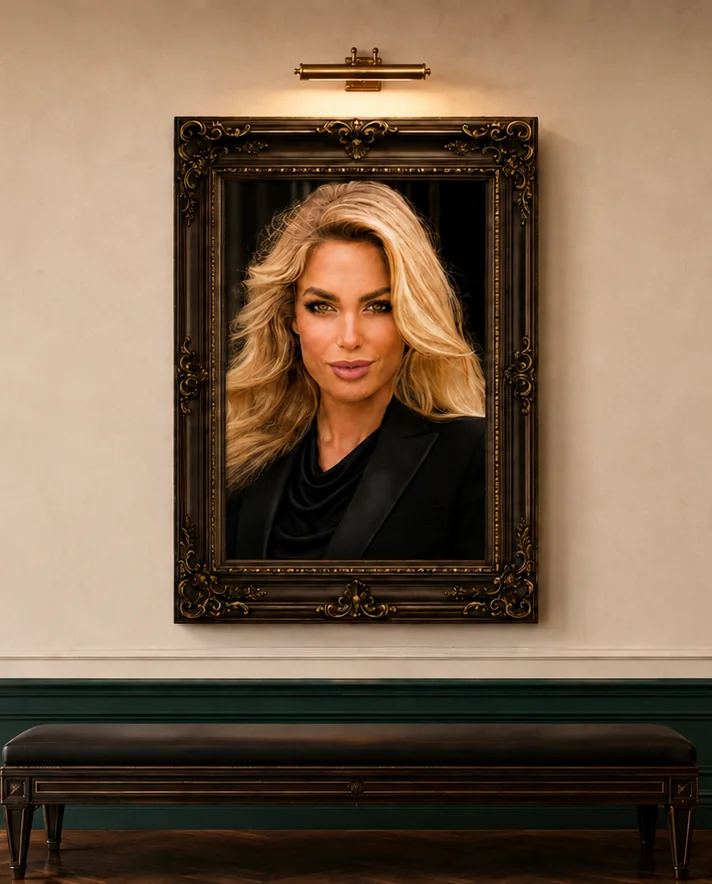
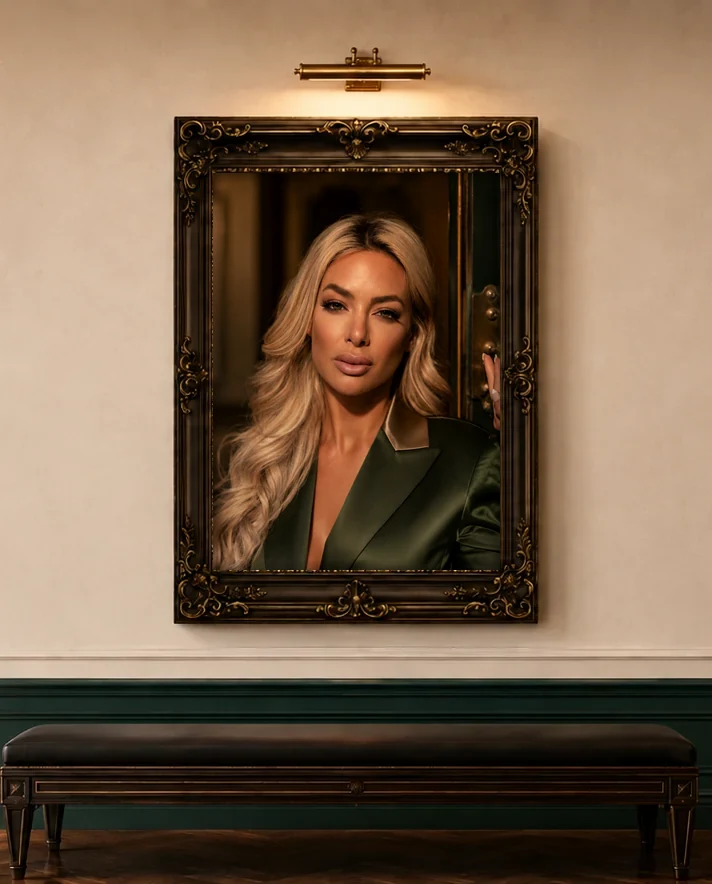
Found Her: the green-blazer portrait hangs in the gallery frame

Changed region(s): [[0.2781, 0.1833, 0.7107, 0.6719]]

diff --git a/WORKLOG.md b/WORKLOG.md
@@ -5,6 +5,14 @@ date · agent · what changed · what was left alone · anything unpushed.
 
 ---
 
+## 2026-08-14 · Claude (Cowork) — night, part 2
+- Recomposited the /found-her gallery wall: the green-blazer portrait now
+  hangs inside the carved frame in founder-portrait-wall.webp and the -m
+  mobile crop (head-and-shoulders crop, warm picture-light falloff and
+  inner-frame shadow matched to the scene). Scene, frame, bench untouched;
+  alts unchanged (they don't name the outfit).
+- Unpushed: five commits total.
+
 ## 2026-08-14 · Claude (Cowork) — night
 - Replaced Shelby's headshot: /editorial/shelby-korpi.webp is now the green
   satin blazer door portrait (from upload, 1122x1402). profiles.ts alt
